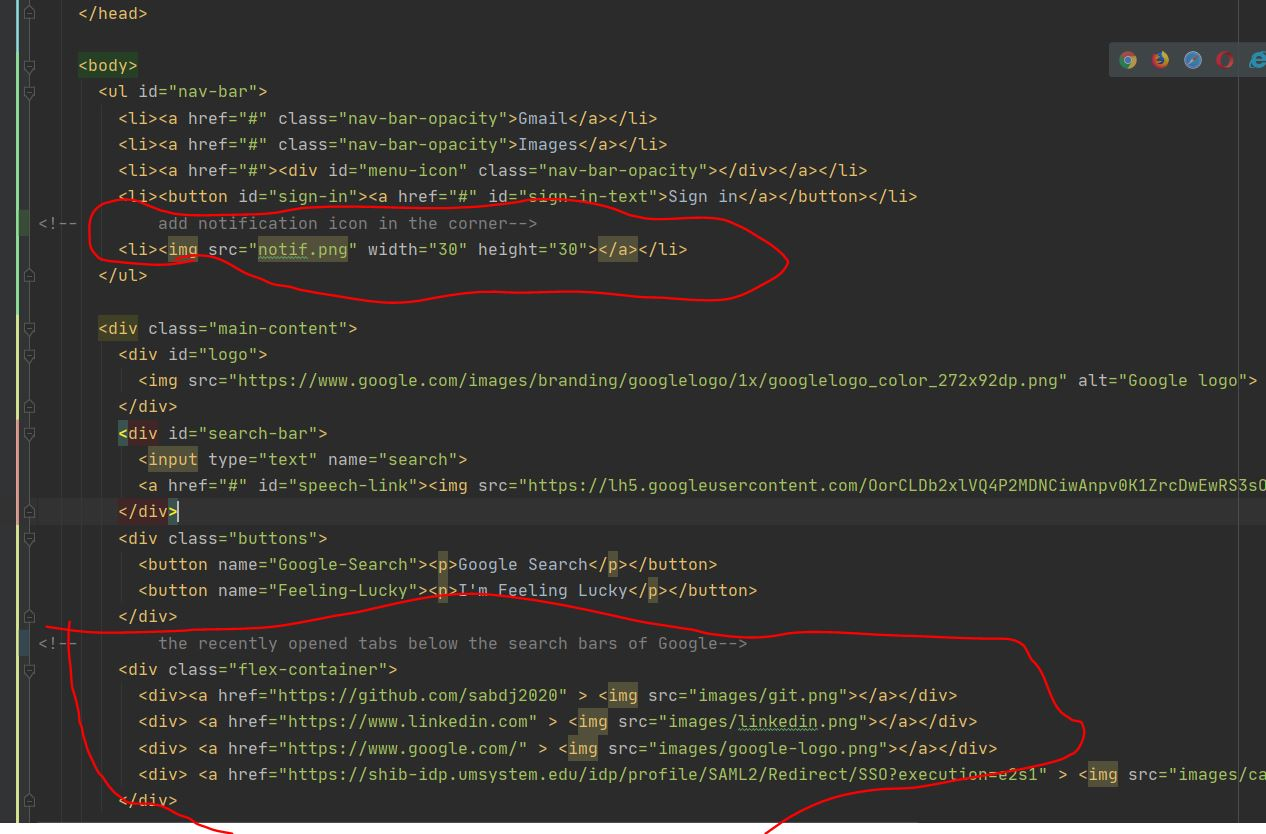
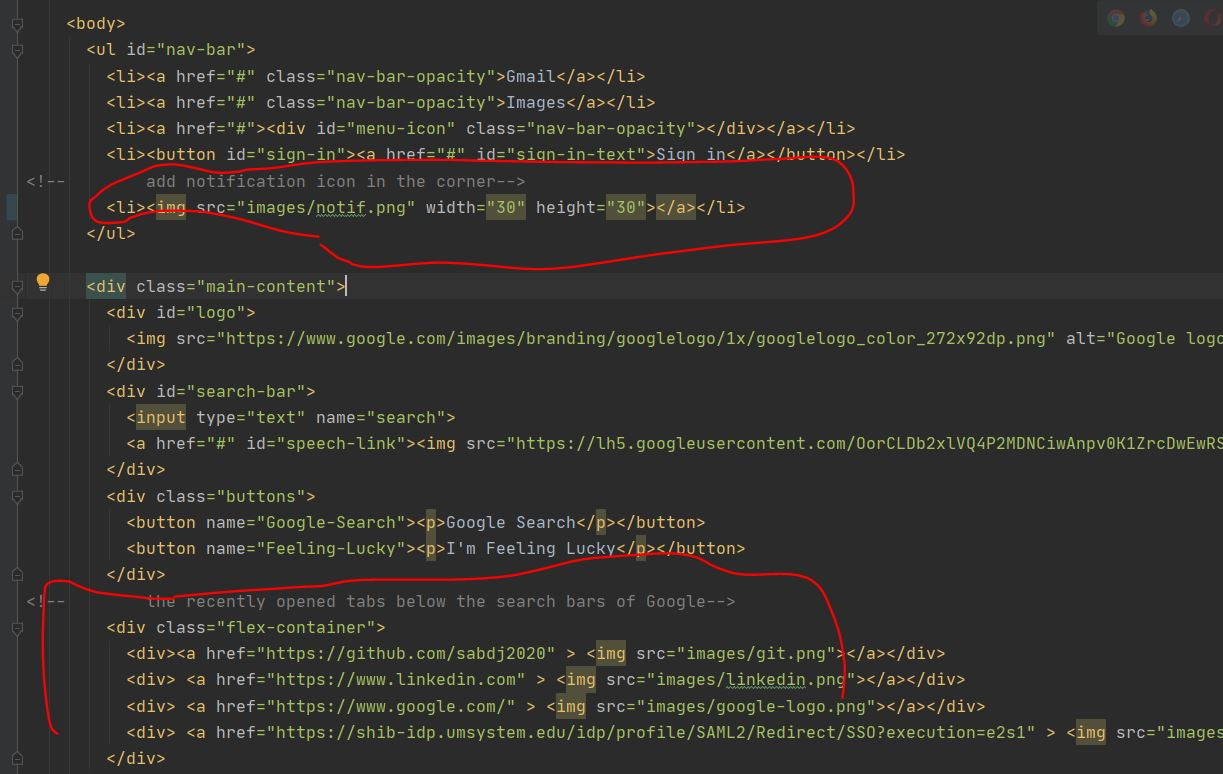
icp2

diff --git a/ICP2/GoogleTask/index.html b/ICP2/GoogleTask/index.html
@@ -11,7 +11,7 @@
         <li><a href="#"><div id="menu-icon" class="nav-bar-opacity"></div></a></li>
         <li><button id="sign-in"><a href="#" id="sign-in-text">Sign in</a></button></li>
 <!--        add notification icon in the corner-->
-        <li><img src="notif.png" width="30" height="30"></a></li>
+        <li><img src="images/notif.png" width="30" height="30"></a></li>
       </ul>
 
       <div class="main-content">
